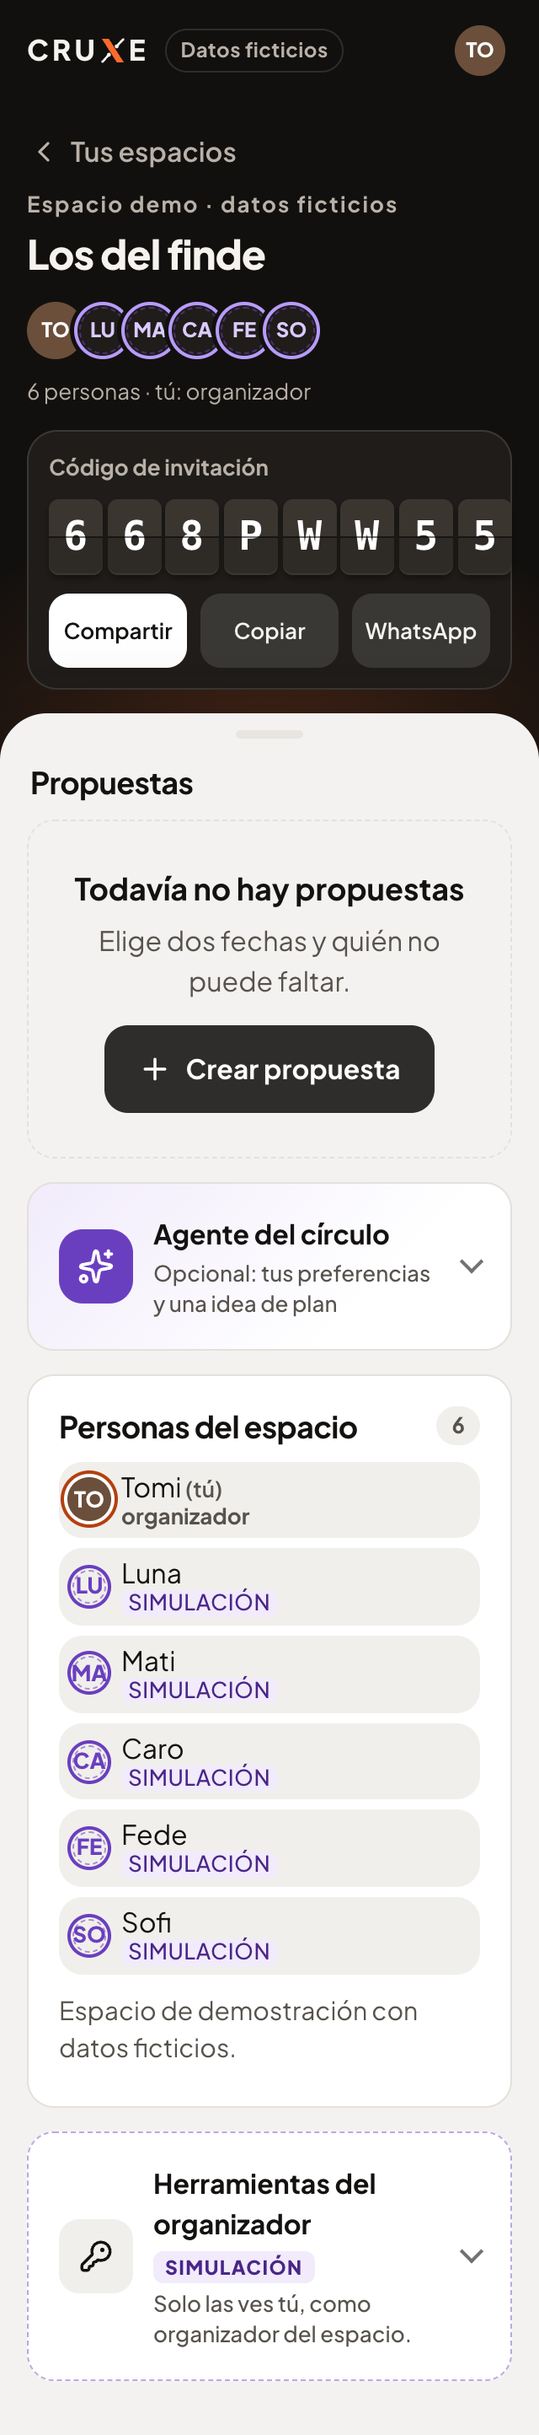
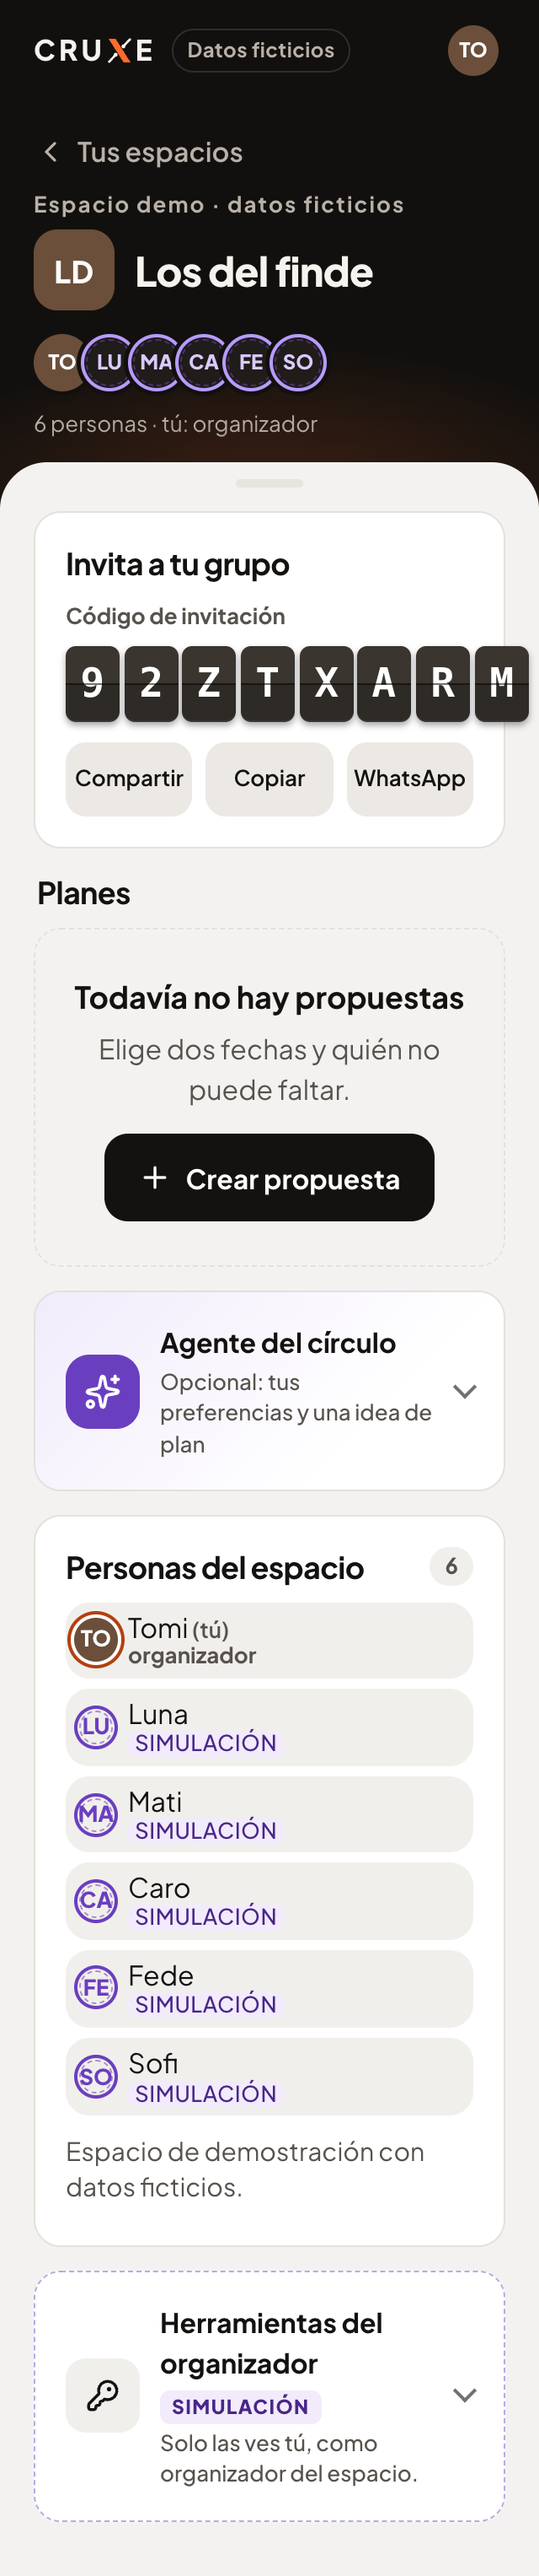
S2 Grupo, paso 2 (mockup validado, pantalla 3): ícono del grupo en la cabecera, invitación en una tarjeta, "Planes" con Nueva propuesta arriba
- Cabecera del nivel Grupo con IconoGrupo y el nombre; el código sale de la escena.
- "Invita a tu grupo": código y Compartir · Copiar · WhatsApp en una tarjeta de la hoja (reemplaza la tarjeta aparte que
  repetía WhatsApp); "Faltan: …" en una línea.
- "Propuestas" pasa a "Planes" con "Nueva propuesta" chico arriba a la derecha (sin barra fija abajo).
Rótulos del guion del pitch y de los guiones intactos (Compartir, Copiar, WhatsApp, Personas del espacio, por entrar,
Crear propuesta, Nueva propuesta, Invita a tu grupo, .codigo). Capturas a 320/375/1280 sin desborde ni errores.

diff --git a/src/screens/Espacio.tsx b/src/screens/Espacio.tsx
@@ -5,7 +5,7 @@ import type { ApiError, Espacio as EspacioT, PropuestaResumen } from '../lib/typ
 import { useAccion, useSondeo } from '../lib/hooks'
 import { rutas, tomarAviso, useIdentidad, useShell } from '../lib/shell'
 import { momentoCorto } from '../lib/format'
-import { Avatar, AvatarPila, Aviso, Boton, Cargando, ErrorCaja, Nombre, Vacio } from '../components/ui'
+import { Avatar, AvatarPila, Aviso, Boton, Cargando, ErrorCaja, IconoGrupo, Nombre, Vacio } from '../components/ui'
 import { Icono } from '../components/Icono'
 import { PlanVivo } from '../components/PlanVivo'
 import { Tablero } from '../components/Tablero'
@@ -153,7 +153,10 @@ export default function Espacio({ espacioId }: { espacioId: string }) {
           <Icono n="atras" tam={20} /> Tus espacios
         </a>
         <span className="escena-eyebrow">{espacio.demo ? 'Espacio demo · datos ficticios' : 'Tu grupo'}</span>
-        <h1 id="espacio-titulo">{espacio.nombre}</h1>
+        <div className="grupo-cabeza">
+          <IconoGrupo nombre={espacio.nombre} />
+          <h1 id="espacio-titulo">{espacio.nombre}</h1>
+        </div>
         <div className="espacio-cabeza">
           <AvatarPila personas={espacio.miembros} max={6} />
           <span className="suave">
@@ -161,13 +164,6 @@ export default function Espacio({ espacioId }: { espacioId: string }) {
             {porEntrar.length > 0 ? ` (${porEntrar.length} por entrar)` : ''}
             {yoEnEspacio ? ` · tú: ${esOrganizador ? 'organizador' : 'miembro'}` : ''}
           </span>
-        </div>
-        <div className="invitar">
-          <div className="invitar-codigo">
-            <span>Código de invitación</span>
-            <Tablero codigo={espacio.codigo_invitacion} />
-          </div>
-          <CopiarCodigo codigo={espacio.codigo_invitacion} espacioNombre={espacio.nombre} />
         </div>
       </section>
 
@@ -178,43 +174,38 @@ export default function Espacio({ espacioId }: { espacioId: string }) {
           </Aviso>
         ) : null}
 
-        {/* Se cuenta solo a quien ya entró: los anotados "por entrar" son justamente a quienes falta invitar (C-8). */}
-        {!espacio.demo && (dentro < 3 || porEntrar.length > 0) ? (
-          <section className="tarjeta invitar-grupo" aria-labelledby="invitar-titulo">
-            <span className="agente-icono" aria-hidden="true">
-              <Icono n="invitar" tam={22} />
-            </span>
-            <div>
-              <h2 id="invitar-titulo">Invita a tu grupo</h2>
-              <p className="suave">
-                {dentro <= 1 ? 'Por ahora estás solo' : `Por ahora entraron ${dentro}`} en «{espacio.nombre}».
-                {porEntrar.length > 0
-                  ? ` Faltan: ${porEntrar.map((m) => m.nombre).join(', ')}. Cada uno toca su nombre en el enlace, sin cuenta.`
-                  : ' Cada uno entra con el enlace y su nombre, sin cuenta.'}
-              </p>
-              {/* Grupo creado sin la lista: al abrir el enlace no hay nombre para tocar y cada uno escribe el suyo. Agregar
-                  integrantes después necesita una operación nueva del servidor (pedido a backend). */}
-              {esOrganizador && porEntrar.length === 0 && dentro <= 1 ? (
-                <p className="suave">
-                  Como el grupo se creó sin la lista, al abrir el enlace cada uno escribe su nombre en «No estoy en la lista».
-                </p>
-              ) : null}
-              <a
-                className="btn btn-secundario btn-chico"
-                href={urlWhatsApp(textoInvitacion(espacio.nombre, espacio.codigo_invitacion))}
-                target="_blank"
-                rel="noopener noreferrer"
-              >
-                <Icono n="whatsapp" tam={18} /> Mandar invitación por WhatsApp
-              </a>
+        {/* Invitar (mockup validado, pantalla 3): el código y las tres formas de mandarlo, en una tarjeta. Los "por entrar" se
+            cuentan aparte: son justamente a quienes falta invitar (C-8). */}
+        <section className="tarjeta invitar-tarjeta" aria-labelledby="invitar-titulo">
+          <div className="tarjeta-cabeza">
+            <h2 id="invitar-titulo">Invita a tu grupo</h2>
+          </div>
+          <div className="invitar">
+            <div className="invitar-codigo">
+              <span>Código de invitación</span>
+              <Tablero codigo={espacio.codigo_invitacion} />
             </div>
-          </section>
-        ) : null}
+            <CopiarCodigo codigo={espacio.codigo_invitacion} espacioNombre={espacio.nombre} />
+          </div>
+          {!espacio.demo && porEntrar.length > 0 ? (
+            <p className="suave invitar-nota">
+              Faltan: {porEntrar.map((m) => m.nombre).join(', ')}. Cada uno toca su nombre en el enlace, sin cuenta.
+            </p>
+          ) : null}
+          {/* Grupo creado sin la lista: al abrir el enlace no hay nombre para tocar y cada uno escribe el suyo. */}
+          {!espacio.demo && esOrganizador && porEntrar.length === 0 && dentro <= 1 ? (
+            <p className="suave invitar-nota">Sin la lista, cada uno escribe su nombre en «No estoy en la lista».</p>
+          ) : null}
+        </section>
 
         <section aria-labelledby="propuestas-titulo">
           <div className="seccion-titulo" style={{ marginTop: 4 }}>
-            <h2 id="propuestas-titulo">Propuestas</h2>
-            {propuestas && propuestas.length > 0 ? <span className="etiqueta num">{propuestas.length}</span> : null}
+            <h2 id="propuestas-titulo">Planes</h2>
+            {propuestas && propuestas.length > 0 ? (
+              <a className="btn btn-secundario btn-chico" href={rutas.nueva(espacioId)}>
+                <Icono n="mas" tam={18} /> Nueva propuesta
+              </a>
+            ) : null}
           </div>
           {errorLista && propuestas === null ? <ErrorCaja error={errorLista} onReintentar={cargarLista} /> : null}
           {errorLista && propuestas !== null ? (
@@ -254,11 +245,6 @@ export default function Espacio({ espacioId }: { espacioId: string }) {
                   </li>
                 ))}
               </ul>
-              <div className="barra-accion">
-                <a className="btn btn-primario" href={rutas.nueva(espacioId)}>
-                  <Icono n="mas" tam={20} /> Nueva propuesta
-                </a>
-              </div>
             </>
           ) : null}
         </section>

diff --git a/src/estilo/seccion-s2.css b/src/estilo/seccion-s2.css
@@ -116,3 +116,49 @@
   font-weight: var(--p-rotulo);
   letter-spacing: 0.02em;
 }
+
+/* ---- nivel Grupo (mockup validado, pantalla 3): ícono del grupo junto al nombre */
+.vista-s2 .grupo-cabeza {
+  display: flex;
+  align-items: center;
+  gap: var(--e-3);
+  min-width: 0;
+}
+.vista-s2 .grupo-cabeza h1 {
+  margin: 0;
+  min-width: 0;
+}
+
+/* ---- tarjeta de invitación en la hoja (antes en la escena) */
+.vista-s2 .invitar-tarjeta .invitar {
+  margin-top: 0;
+  padding: 0;
+  background: none;
+  border: 0;
+}
+.vista-s2 .invitar-tarjeta .invitar-codigo > span {
+  color: var(--tinta-2);
+}
+.vista-s2 .invitar-tarjeta .tablero {
+  color: var(--tinta);
+}
+.vista-s2 .invitar-nota {
+  margin: var(--e-3) 0 0;
+}
+.vista-s2 .seccion-titulo {
+  justify-content: space-between;
+  margin-top: var(--entre-bloques);
+}
+/* En la tarjeta clara, los tres botones del código usan el secundario del sistema (eran claros para la escena oscura). */
+.vista-s2 .invitar-tarjeta .invitar-botones .btn,
+.vista-s2 .invitar-tarjeta .invitar-botones .btn-blanco,
+.vista-s2 .invitar-tarjeta .invitar-botones .btn-claro {
+  background: var(--btn-2);
+  color: var(--btn-2-texto);
+  border: 0;
+  box-shadow: none;
+}
+.vista-s2 .invitar-tarjeta .invitar-botones .btn-hecho {
+  background: var(--ok-suave);
+  color: var(--ok);
+}
